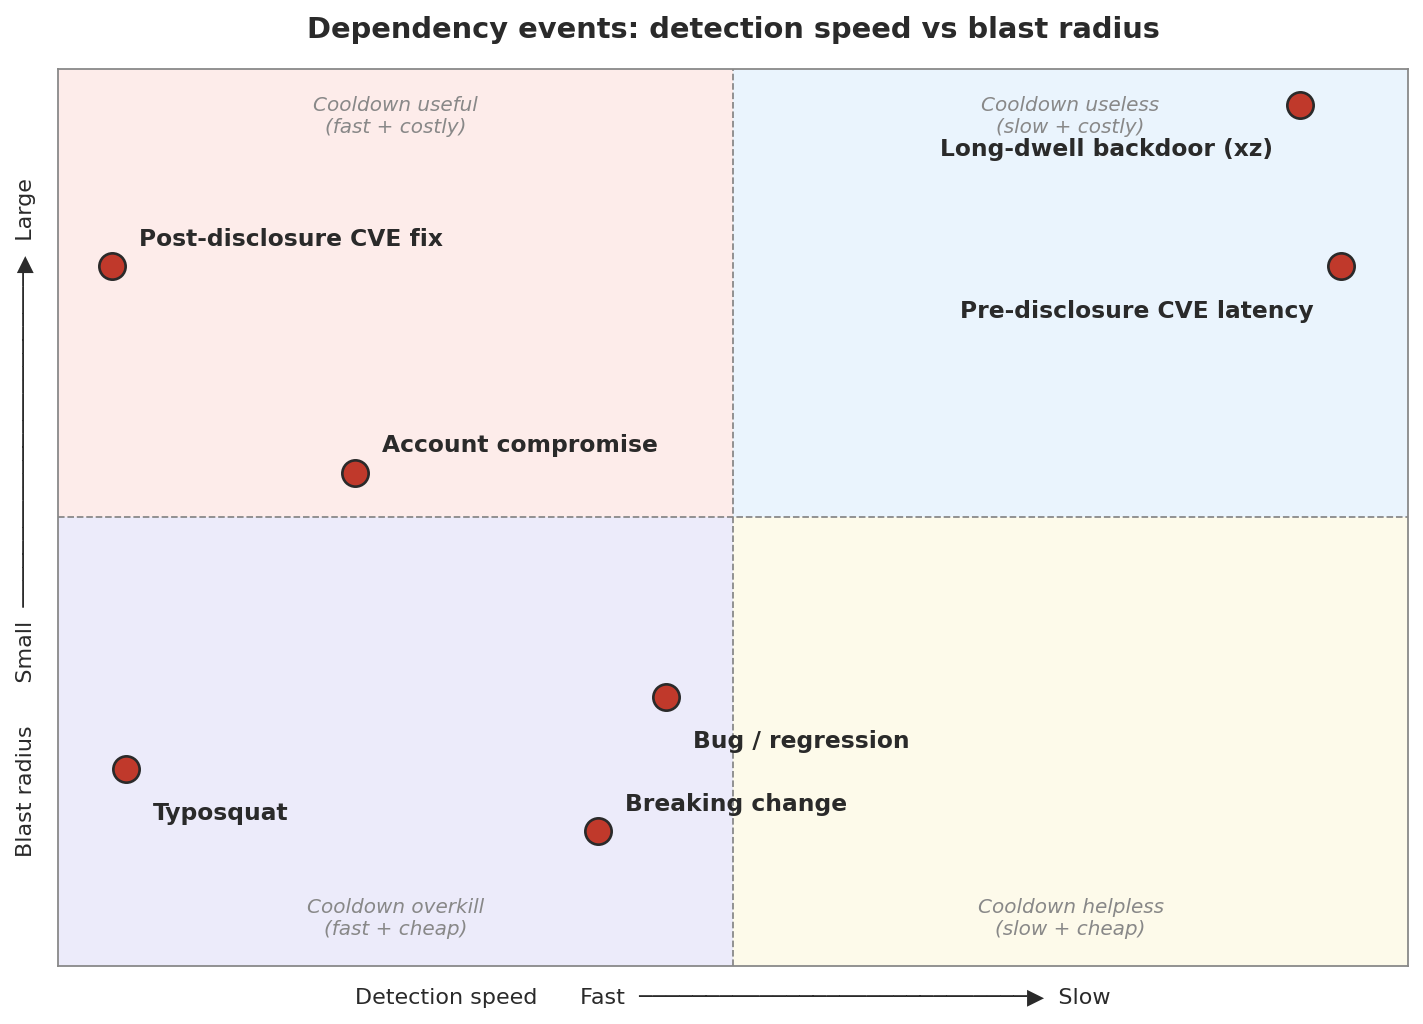
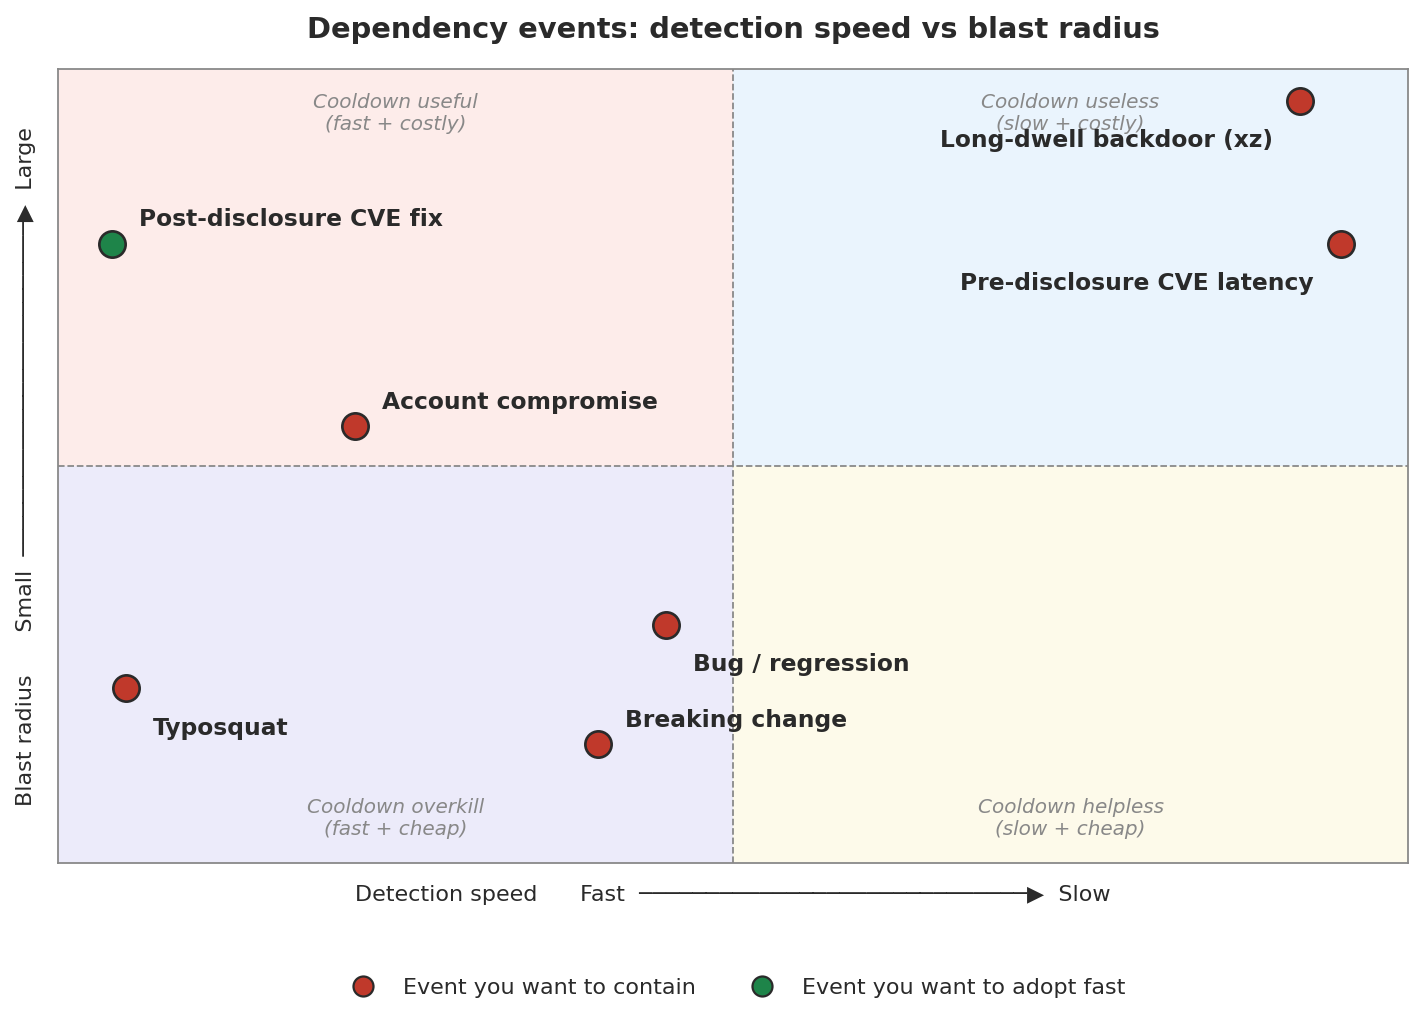
feat(blog): color quadrant dots by polarity (bad vs good)
Post-disclosure CVE fix is green; everything else (typosquat, account
compromise, bug, breaking change, long-dwell, pre-disclosure CVE) is
red. Makes the visual argument immediate: the cooldown lives in the
left half of the plane where the only green dot is, meaning it
delays the one event you actually want to adopt fast.

Legend below the axes to avoid collision with the bottom-right
quadrant label.

diff --git a/scripts/plot_dependency_events_quadrant.py b/scripts/plot_dependency_events_quadrant.py
@@ -27,15 +27,20 @@ import matplotlib.pyplot as plt
 
 OUTPUT_LIGHT = Path("content/imgs/dependency_events_quadrant.png")
 
-# (label, x = detection delay normalized 0..1, y = blast radius normalized 0..1)
-POINTS: list[tuple[str, float, float]] = [
-    ("Typosquat", 0.05, 0.22),
-    ("Account compromise", 0.22, 0.55),
-    ("Bug / regression", 0.45, 0.30),
-    ("Breaking change", 0.40, 0.15),
-    ("Post-disclosure CVE fix", 0.04, 0.78),
-    ("Pre-disclosure CVE latency", 0.95, 0.78),
-    ("Long-dwell backdoor (xz)", 0.92, 0.96),
+# Point polarity. "bad" = something you want to avoid/contain; "good" = something
+# you actively want to adopt fast. The cooldown delays the only "good" event
+# in the set while failing to catch most of the "bad" ones.
+Polarity = str  # "bad" | "good"
+
+# (label, x = detection delay normalized 0..1, y = blast radius normalized 0..1, polarity)
+POINTS: list[tuple[str, float, float, Polarity]] = [
+    ("Typosquat",                     0.05, 0.22, "bad"),
+    ("Account compromise",            0.22, 0.55, "bad"),
+    ("Bug / regression",              0.45, 0.30, "bad"),
+    ("Breaking change",               0.40, 0.15, "bad"),
+    ("Post-disclosure CVE fix",       0.04, 0.78, "good"),
+    ("Pre-disclosure CVE latency",    0.95, 0.78, "bad"),
+    ("Long-dwell backdoor (xz)",      0.92, 0.96, "bad"),
 ]
 
 # Label offset per point to avoid overlaps (dx, dy in data coords)
@@ -61,7 +66,9 @@ def _render(outfile: Path, dark: bool) -> None:
     bg = "#1a1a1a" if dark else "#ffffff"
     fg = "#e0e0e0" if dark else "#2a2a2a"
     muted = "#666666" if dark else "#888888"
-    point_color = "#ff6b6b" if dark else "#c0392b"
+    bad_color = "#ff6b6b" if dark else "#c0392b"   # red: events to avoid
+    good_color = "#4caf50" if dark else "#1e8449"  # green: events to adopt fast
+    point_colors: dict[str, str] = {"bad": bad_color, "good": good_color}
     quadrant_bg_colors = (
         ["#2a1f1f", "#1f2a2a", "#1f1f2a", "#2a2a1f"] if dark
         else ["#fdecea", "#eaf4fd", "#ecebfa", "#fdfaea"]
@@ -91,10 +98,10 @@ def _render(outfile: Path, dark: bool) -> None:
         )
 
     # Points
-    for label, x, y in POINTS:
+    for label, x, y, polarity in POINTS:
         ax.scatter(
             x, y,
-            s=140, color=point_color, edgecolors=fg, linewidths=1.2,
+            s=140, color=point_colors[polarity], edgecolors=fg, linewidths=1.2,
             zorder=4,
         )
         dx, dy = LABEL_OFFSETS.get(label, (0.02, 0.02))
@@ -107,6 +114,26 @@ def _render(outfile: Path, dark: bool) -> None:
             ha=ha, va="center",
             zorder=5,
         )
+
+    # Legend so the green vs red distinction is explicit
+    from matplotlib.lines import Line2D  # local import keeps top of file tidy
+    legend_handles = [
+        Line2D([0], [0], marker="o", linestyle="", markersize=9,
+               markerfacecolor=bad_color, markeredgecolor=fg, markeredgewidth=1.0,
+               label="Event you want to contain"),
+        Line2D([0], [0], marker="o", linestyle="", markersize=9,
+               markerfacecolor=good_color, markeredgecolor=fg, markeredgewidth=1.0,
+               label="Event you want to adopt fast"),
+    ]
+    legend = ax.legend(
+        handles=legend_handles,
+        loc="upper center",
+        bbox_to_anchor=(0.5, -0.12),
+        ncol=2,
+        frameon=False,
+        fontsize=10,
+        labelcolor=fg,
+    )
 
     # Axes styling
     ax.set_xlim(0, 1)